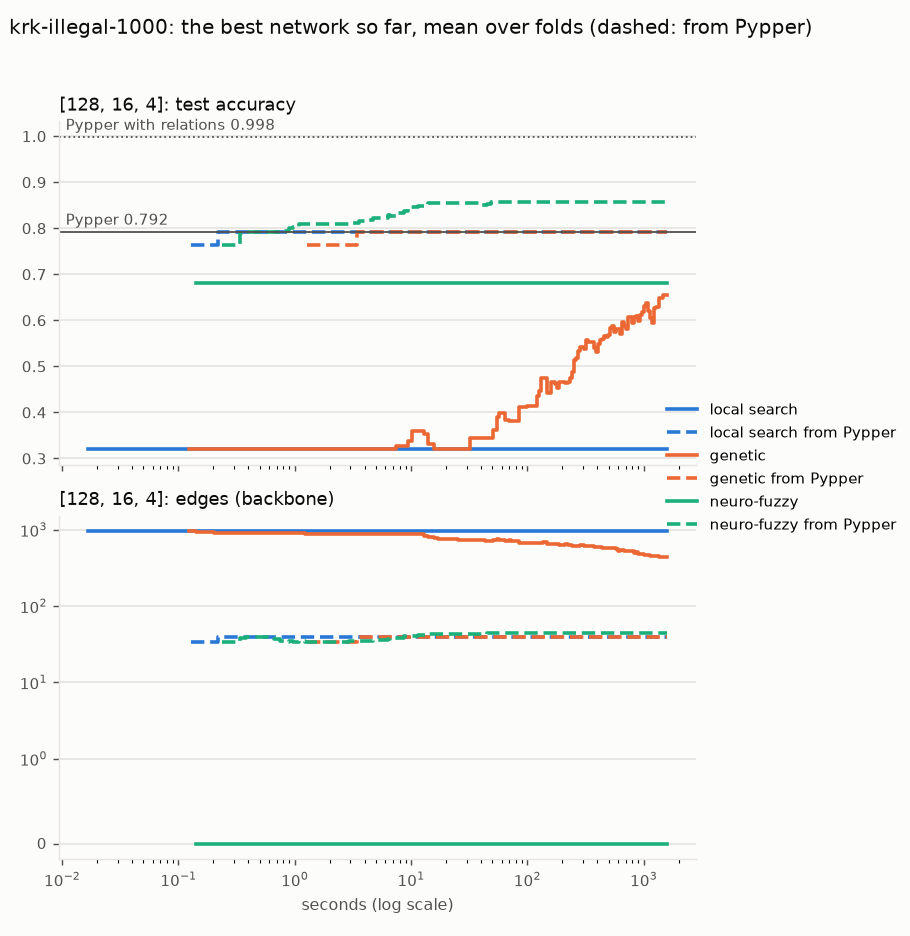
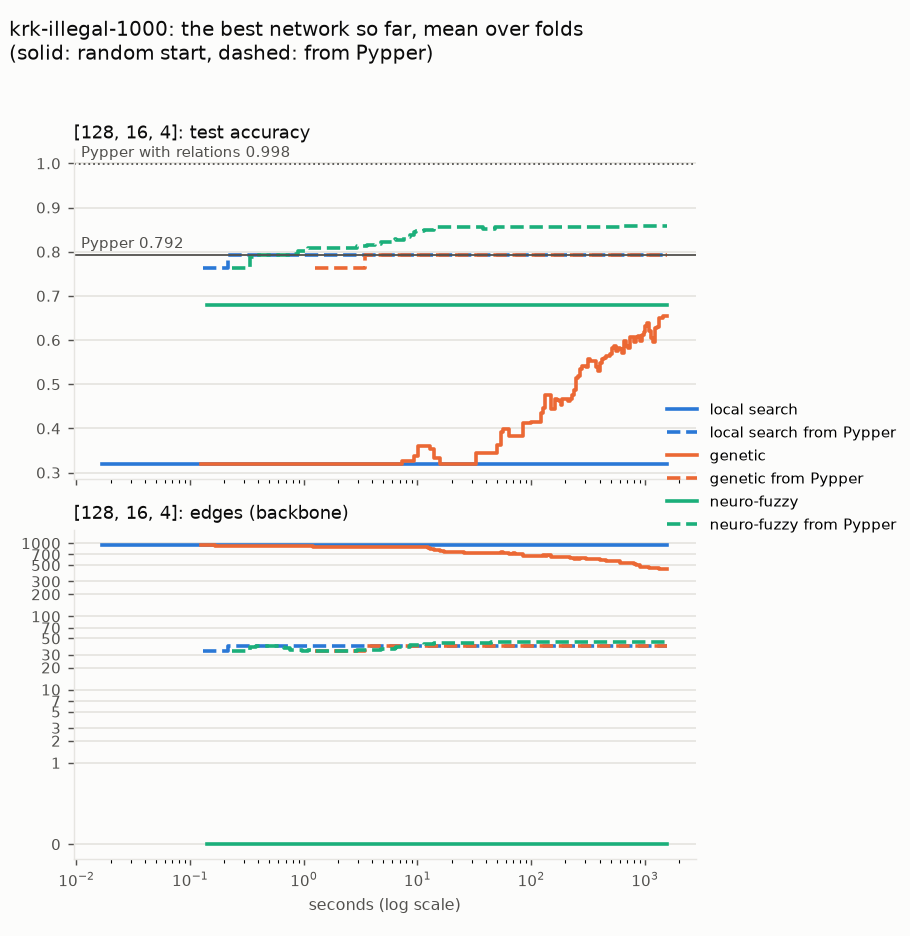
Deep rule networks: part 4 results (FOIL as the start)
The full run of part 4 on a32ec3b (parts 1-3 from the cache): FOIL's
start is worse than Pypper's on its own except on parity and mushroom
(it overfits breast-cancer and SPECT), but it is no local optimum: the
learners improve it a lot. From FOIL they end better on parity (all
100 %), kr-vs-kp, mushroom and KRK (neuro-fuzzy 88.4 % against 85.8 %),
worse on tic-tac-toe, breast-cancer and SPECT; local search on KRK
strips FOIL's ~220 edges down to the empty network (lambda 1). Plots of
both starts per dataset.

Table cells of runs never made read "not run" (mushroom's MaxSAT); the
title of a one-panel plot wraps.

diff --git a/demos/deep_rule_networks.py b/demos/deep_rule_networks.py
@@ -535,7 +535,8 @@ def _plot_traces(res: pd.DataFrame, quick: bool, panels: List[Tuple[str, str]], 
         fig.legend(handles, labels, frameon=False, fontsize=8.5, loc="center right")
         styles = {"-": "solid", "--": "dashed", ":": "dotted"}
         legend = ", ".join(f"{styles[style]}: {f'from {start}' if start else 'random start'}" for start, style in starts)
-        fig.suptitle(f"{ds}: the best network so far, mean over folds ({legend})", x=0.01, ha="left",
+        fig.suptitle(f"{ds}: the best network so far, mean over folds{chr(10) if len(panels) == 1 else ' '}({legend})",
+                     x=0.01, ha="left",
                      color=INK, fontsize=11)
         fig.tight_layout(rect=(0, 0, 1 - 1.5 / (5.5 * len(panels) + 1.5), 0.96))
         path = os.path.join(PLOTS_DIR, f"{NAME}{'_quick' if quick else ''}{tag}_{ds}.png")
@@ -616,6 +617,8 @@ def _part4_section(res2: pd.DataFrame, res3: pd.DataFrame, res4: pd.DataFrame, k
         return rows[column].mean() if len(rows) else np.nan
 
     def cell(res, ds, learner):
+        if not ((res["dataset"] == ds) & (res["learner"] == learner)).any():
+            return "not run"
         acc, edges = mean(res, ds, learner, "accuracy"), mean(res, ds, learner, "edges")
         if np.isnan(acc):
             return _pct(acc, ds, learner)

diff --git a/demos/deep_rule_networks_report.md b/demos/deep_rule_networks_report.md
@@ -29,6 +29,9 @@ network `[128, 16, 4]`; local search, the genetic algorithm and `DeepNeuroFuzzy`
 and from Pypper, lambda = 1, each with 1500 s (`max_seconds`, epochs and
 generations unbounded). No MaxSAT: the formula would have millions of variables.
 
+Part 4: parts 2 and 3 with the learners started from FOIL's rules instead of Pypper's
+(`FoilInit`: `PFoil` for the output's class, at most one rule per first-layer node).
+
 Each fit is capped at 1800 s; a time-out drops the learner's whole
 cross-validation on that dataset (the folds not yet started are skipped; `time-out (k/n)`:
 k of the n folds that ran failed, the others -- already running -- finished). Times are
@@ -117,3 +120,56 @@ Final test accuracy (%), backbone edges and mean fit time (s):
 | neuro-fuzzy | 68.00 | 0 | 1500 |
 | neuro-fuzzy from Pypper | 85.80 | 45 | 1500 |
 | Pypper with relations | 99.80 | | |
+
+## Part 4: FOIL as the start
+
+Parts 2 and 3 with the learners started from FOIL's rules (`PFoil` for the class the network learns, at most one rule per first-layer node: `FoilInit`) instead of Pypper's. Final test accuracy (%) with the backbone's edges in brackets; *start*: the rule set itself (Pypper; FOIL cut to the layer's width).
+
+**NNF(1)** `[20]`:
+
+| dataset | Pypper (start) | FOIL (start) | local search from Pypper | local search from FOIL | genetic from Pypper | genetic from FOIL | MaxSAT from Pypper | MaxSAT from FOIL | neuro-fuzzy from Pypper | neuro-fuzzy from FOIL |
+|---|--:|--:|--:|--:|--:|--:|--:|--:|--:|--:|
+| tic-tac-toe | 98.33 | 93.62 | 98.33 (32) | 96.87 (53) | 98.33 (32) | 96.66 (52) | 98.33 (32) | 93.62 (60) | 98.33 (32) | 98.33 (32) |
+| kr-vs-kp | 98.97 | 98.97 | 99.00 (56) | 99.16 (83) | 99.00 (55) | 99.22 (83) | 98.97 (57) | 98.97 (93) | 98.59 (43) | 98.66 (47) |
+| vote | 95.86 | 89.20 | 95.86 (8) | 95.40 (27) | 95.86 (7) | 95.86 (19) | 95.17 (4) | 95.17 (3) | 95.17 (4) | 95.63 (3) |
+| breast-cancer | 74.45 | 52.45 | 74.46 (4) | 66.09 (51) | 74.46 (4) | 67.48 (53) | 70.65 (6) | 71.66 (8) | 74.46 (4) | 72.70 (7) |
+| SPECT | 79.80 | 56.19 | 80.92 (7) | 79.40 (22) | 83.13 (7) | 78.67 (22) | 83.14 (7) | 83.14 (7) | 80.91 (7) | 82.02 (7) |
+| parity-4-of-10 | 62.39 | 73.71 | 95.12 (36) | 100.00 (40) | 95.12 (36) | 100.00 (40) | 99.22 (45) | 100.00 (43) | 80.77 (39) | 100.00 (40) |
+| mushroom | 99.96 | 100.00 | 99.96 (16) | 100.00 (16) | 99.96 (16) | 100.00 (16) | not run | not run | 99.96 (16) | 100.00 (16) |
+
+**NNF(3)** `[32, 8, 2]`:
+
+| dataset | Pypper (start) | FOIL (start) | local search from Pypper | local search from FOIL | genetic from Pypper | genetic from FOIL | MaxSAT from Pypper | MaxSAT from FOIL | neuro-fuzzy from Pypper | neuro-fuzzy from FOIL |
+|---|--:|--:|--:|--:|--:|--:|--:|--:|--:|--:|
+| tic-tac-toe | 98.33 | 93.62 | 98.33 (34) | 96.87 (53) | 98.33 (34) | 96.87 (51) | 98.33 (34) | 93.62 (62) | 98.33 (34) | 98.33 (34) |
+| kr-vs-kp | 98.97 | 98.44 | 98.94 (57) | 99.12 (88) | 99.00 (57) | 99.31 (80) | 98.97 (59) | 98.44 (106) | 98.53 (45) | 98.66 (46) |
+| vote | 95.86 | 89.20 | 95.86 (10) | 95.40 (29) | 95.63 (10) | 95.63 (22) | 95.63 (8) | 95.63 (5) | 95.17 (6) | 95.63 (6) |
+| breast-cancer | 74.45 | 52.45 | 73.41 (5) | 65.74 (41) | 73.42 (7) | 70.98 (2) | 72.38 (6) | 71.68 (4) | 74.46 (6) | 73.41 (9) |
+| SPECT | 79.80 | 56.19 | 80.92 (10) | 77.53 (21) | 80.53 (9) | 79.40 (0) | 82.75 (9) | 84.26 (9) | 80.91 (7) | 79.76 (6) |
+| parity-4-of-10 | 62.39 | 84.24 | 100.00 (43) | 100.00 (42) | 100.00 (41) | 100.00 (42) | 99.80 (38) | 97.95 (50) | 66.40 (14) | 100.00 (42) |
+| mushroom | 99.96 | 100.00 | 99.96 (18) | 100.00 (18) | 99.96 (18) | 100.00 (18) | not run | not run | 99.96 (18) | 100.00 (18) |
+
+**KRK** (`[128, 16, 4]`, 1500 s per fit):
+
+| learner | from Pypper | from FOIL |
+|---|--:|--:|
+| the start | 79.20 | 73.30 |
+| local search | 79.20 (40) | 68.00 (0) |
+| genetic | 79.20 (40) | 81.60 (220) |
+| neuro-fuzzy | 85.80 (45) | 88.40 (59) |
+
+![tic-tac-toe](deep_rule_networks_plots/deep_rule_networks_foil_tic-tac-toe.png)
+
+![kr-vs-kp](deep_rule_networks_plots/deep_rule_networks_foil_kr-vs-kp.png)
+
+![vote](deep_rule_networks_plots/deep_rule_networks_foil_vote.png)
+
+![breast-cancer](deep_rule_networks_plots/deep_rule_networks_foil_breast-cancer.png)
+
+![SPECT](deep_rule_networks_plots/deep_rule_networks_foil_SPECT.png)
+
+![parity-4-of-10](deep_rule_networks_plots/deep_rule_networks_foil_parity-4-of-10.png)
+
+![mushroom](deep_rule_networks_plots/deep_rule_networks_foil_mushroom.png)
+
+![krk-illegal-1000](deep_rule_networks_plots/deep_rule_networks_foil_krk-illegal-1000.png)
